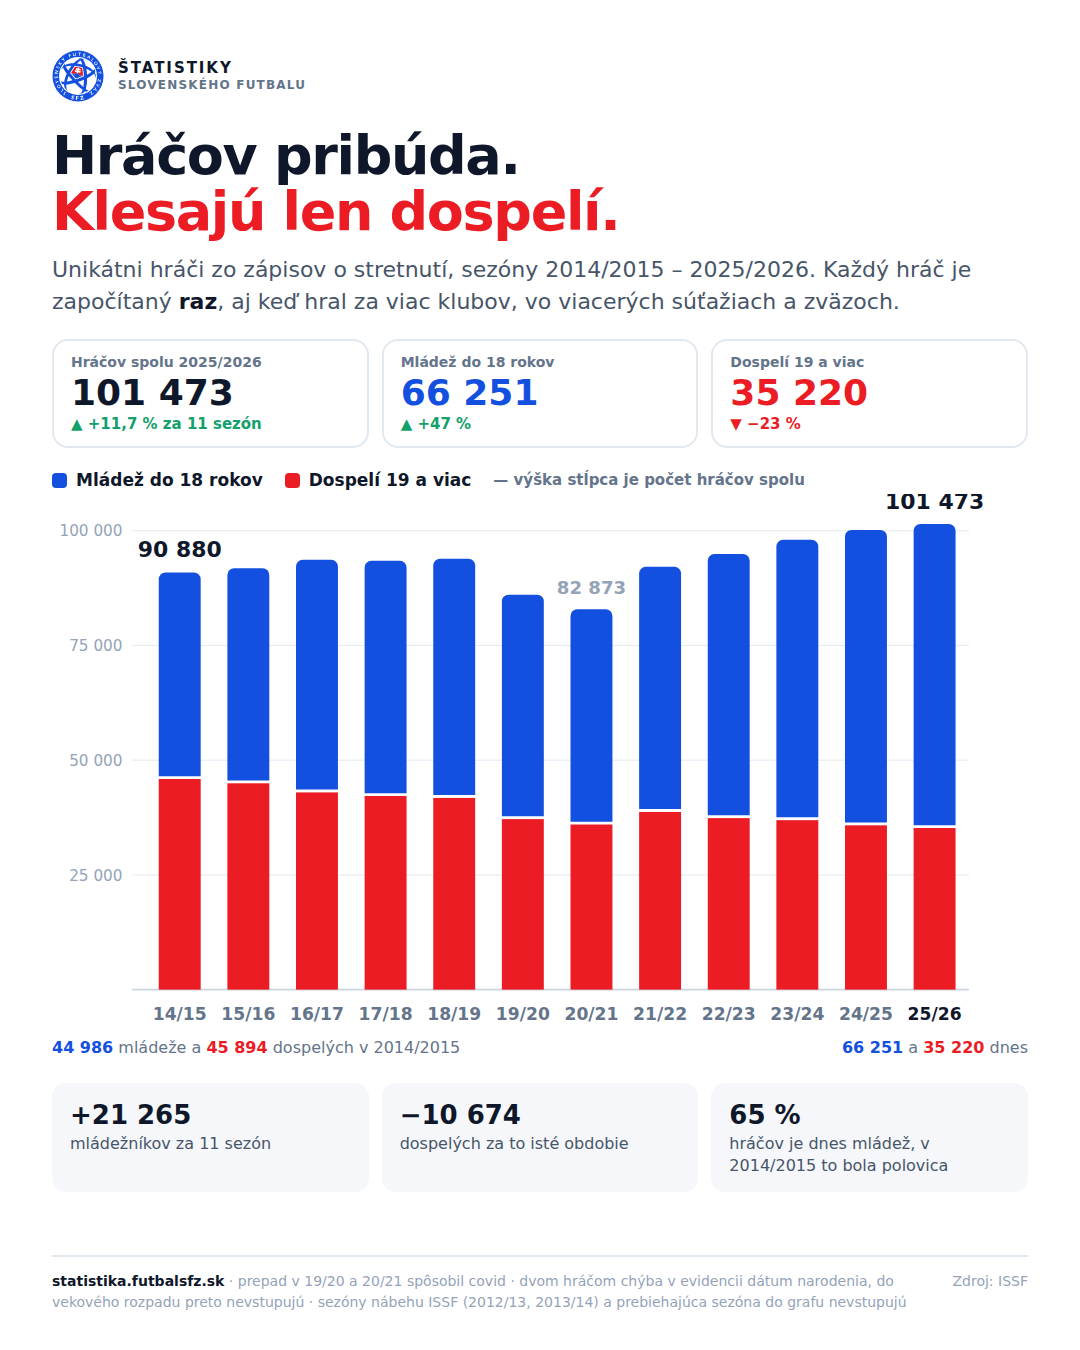
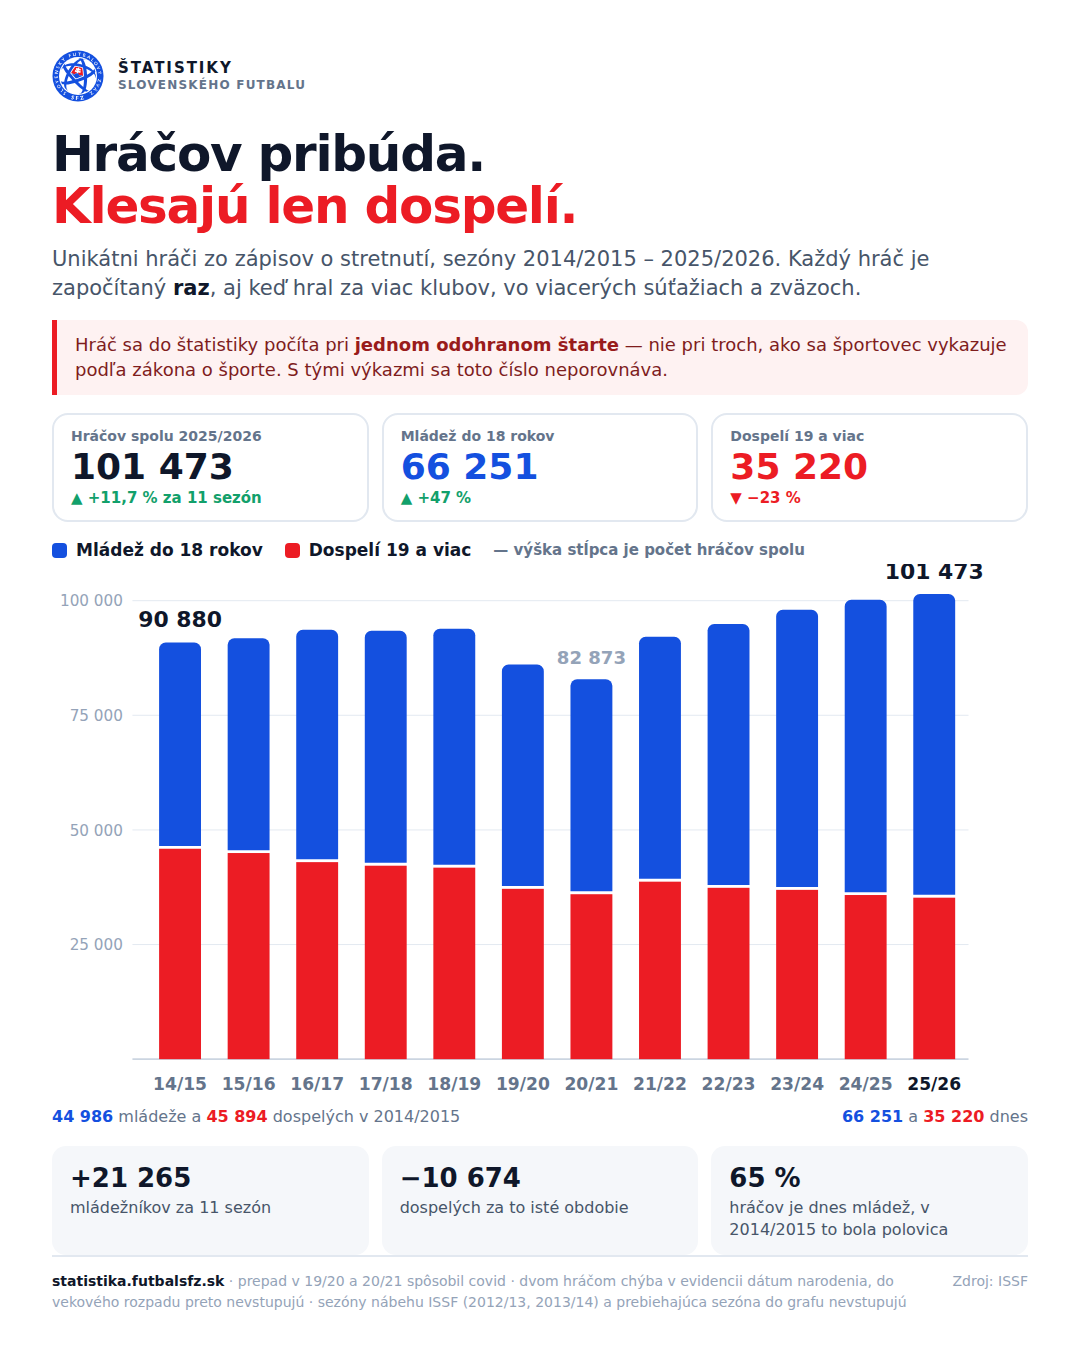
Post pocet hracov: doplnene, ze sa pocita jeden start hraca
Jan Letko: pridat info, ze sa pocita minimalne jeden start hraca, nie minimalne tri ako vykazy podla zakona o sporte. V obrazku je to cerveno oramovany pas pod podnadpisom, v oboch textoch posledny odsek pred odkazom a je to aj v alt texte.

diff --git a/docs/social/2026-08-pocet-hracov/generator/graf.html b/docs/social/2026-08-pocet-hracov/generator/graf.html
@@ -6,21 +6,24 @@ body{width:1080px;height:1350px;background:#fff;color:#0f172a;font-family:"DejaV
 .brand img{width:52px;height:52px}
 .brand .t{font-size:15px;font-weight:800;letter-spacing:.13em;text-transform:uppercase;line-height:1.25}
 .brand .t span{display:block;font-size:12px;font-weight:600;letter-spacing:.1em;color:#64748b}
-h1{font-size:54px;line-height:1.04;font-weight:800;letter-spacing:-.025em;margin-top:26px}
+h1{font-size:50px;line-height:1.04;font-weight:800;letter-spacing:-.025em;margin-top:26px}
 h1 em{font-style:normal;color:#ec1c24}
-.pod{font-size:22px;line-height:1.42;color:#475569;margin-top:14px;max-width:950px}
+.pod{font-size:21px;line-height:1.4;color:#475569;margin-top:13px;max-width:950px}
 .pod b{color:#0f172a}
-.kpi{display:flex;gap:13px;margin-top:22px}
+.norma{margin-top:16px;border-left:5px solid #ec1c24;background:#fef2f2;
+       border-radius:0 12px 12px 0;padding:12px 18px;font-size:18px;line-height:1.42;color:#7f1d1d}
+.norma b{color:#991b1b}
+.kpi{display:flex;gap:13px;margin-top:18px}
 .kpi div{flex:1;border:2px solid #e2e8f0;border-radius:16px;padding:13px 17px}
 .kpi small{display:block;font-size:14px;color:#64748b;font-weight:600}
 .kpi b{display:block;font-size:36px;font-weight:800;line-height:1.15;margin:2px 0 1px;font-variant-numeric:tabular-nums}
 .kpi i{font-style:normal;font-size:15px;font-weight:700}
-.legenda{display:flex;gap:22px;align-items:center;font-size:17px;font-weight:700;margin:22px 0 4px}
+.legenda{display:flex;gap:22px;align-items:center;font-size:17px;font-weight:700;margin:18px 0 4px}
 .legenda span{display:inline-flex;align-items:center;gap:9px}
 .legenda i{width:15px;height:15px;border-radius:4px;display:block}
 .legenda em{font-style:normal;color:#64748b;font-weight:600;font-size:15px}
 .konce{display:flex;justify-content:space-between;font-size:16px;color:#64748b;margin-top:4px}
-.pointa{display:flex;gap:13px;margin-top:26px}
+.pointa{display:flex;gap:13px;margin-top:20px}
 .pointa div{flex:1;background:#f5f7fa;border-radius:14px;padding:14px 18px;font-size:16px;
             line-height:1.4;color:#475569}
 .pointa b{display:block;font-size:26px;font-weight:800;color:#0f172a;font-variant-numeric:tabular-nums}
@@ -33,6 +36,11 @@ h1 em{font-style:normal;color:#ec1c24}
   <h1>Hráčov pribúda.<br/><em>Klesajú len dospelí.</em></h1>
   <p class="pod">Unikátni hráči zo zápisov o stretnutí, sezóny 2014/2015 – 2025/2026. Každý hráč
      je započítaný <b>raz</b>, aj keď hral za viac klubov, vo viacerých súťažiach a zväzoch.</p>
+
+  <div class="norma">
+    Hráč sa do štatistiky počíta pri <b>jednom odohranom štarte</b> — nie pri troch, ako sa
+    športovec vykazuje podľa zákona o športe. S tými výkazmi sa toto číslo neporovnáva.
+  </div>
 
   <div class="kpi">
     <div><small>Hráčov spolu 2025/2026</small><b>101 473</b><i style="color:#12a06b">▲ +11,7 % za 11 sezón</i></div>
